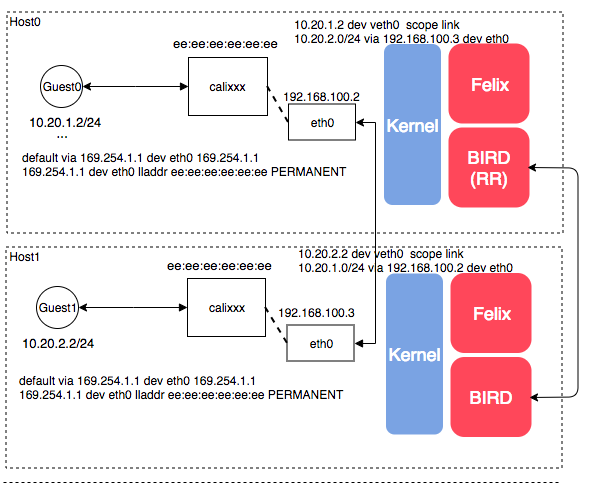
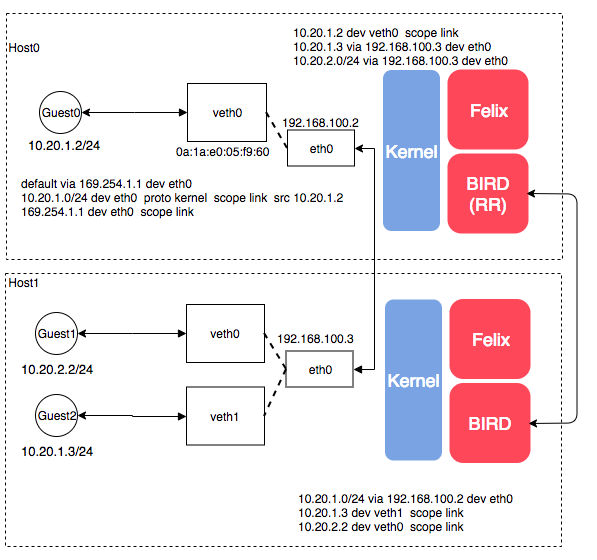
add

diff --git a/_draft/2018-08-05-容器网络 Calico 基本原理和验证.md b/_draft/2018-08-05-容器网络 Calico 基本原理和验证.md
@@ -1,15 +1,14 @@
 ---
 description: "
-之前一篇博文分析了容器网络 Flannel 的 backend 的基本原理和验证，在容器网络方案中，Calico 的方案也是主流常用的方案，这篇文章对 Calico 进行基本原理分析和模拟验证。
+在容器网络跨 Host Overlay 方案中，除开 Flannel 使用的隧道方案实现，第二种主流的方案为 Calico 三层路由的方案实现，与 Flannel 不同的是 Calico 并不使用隧道或 NAT 来转发和组网，而是巧妙的把流量转换称三层路由的方式，再直接利用 host 上 veth 接口和路由表来完成数据转发，本文则对 Calico 进行基本原理分析和模拟验证。
 "
 ---
 ### 摘要
-
-之前一篇博文分析了容器网络 Flannel 的 backend 的基本原理和验证，在容器网络方案中，Calico 的方案也是主流常用的方案，这篇文章对 Calico 进行基本原理分析和模拟验证。
+在容器网络跨 Host Overlay 方案中，除开 Flannel 使用的隧道方案实现，第二种主流的方案为 Calico 三层路由的方案实现，与 Flannel 不同的是 Calico 并不使用隧道或 NAT 来转发和组网，而是巧妙的把流量转换称三层路由的方式，再直接利用 host 上 veth 接口和路由表来完成数据转发，本文则对 Calico 进行基本原理分析和模拟验证。
 
 ### 简介
 
-官方定义如下：
+calico 官方定义如下：
 
 ```text
 Calico provides secure network connectivity for containers and virtual machine workloads.
@@ -18,23 +17,44 @@ Calico creates and manages a flat layer 3 network, assigning each workload a ful
 
 Calico also provides dynamic enforcement of network security rules. Using Calico’s simple policy language, you can achieve fine-grained control over communications between containers, virtual machine workloads, and bare metal host endpoints.
 ```
+大意翻译称自己的理解是：
+Calico 为容器和 vm 提供一个安全的网路连接方案，通过给 workload 分配一个扁平的三层路由可达的 IP 地址，并他们之间不使用隧道或 NAT 技术，这种简单的方式可以提供更好的网络性能、易维护、可交互性。在一些需要 overlay 的场景种，也提供 IPIP 隧道连接和与 Flannel 集成。
+Calico 同时提供了一种动态执行的网络安全策略，能使用简单的安全模型语言实现复杂的 workloads 之间的安全控制。
 
-Calico 为容器和 vm 提供一个网络安全的解决方案，Calico 构建一个扁平的三层网络方案，即所有的 guest 之间全部走路由表，并不关心 ARP 表，并不使用 IP 封装或 NAT 技术，节点间的路由信息使用 BGP 协议来实现，这样获取更好的网络性能、易维护且可交互性。在一些特定场景中可使用 IP-IP 隧道技术或者与 Flannel 配合构建网络。另外 Calico 提供一种动态安全策略，使用简易的策略语言来控制容器、虚拟机、物理之间的网络安全。
+### 相对 Overlay，为什么用 Calico？
 
-可见，Calico 的网络不使用 Overlay 技术的实现，而完全通过动态路由和 ACL 安全策略实现，并且也能与 flannel 的网路方案集成，说是一个网络安全方案更准确。
+Calico 有一篇官方的[博文](https://www.projectcalico.org/why-calico/)来说明，大意如下：
+
+Calico 是一种使 workloads 之间互通的网络方法，这里特意使用 workloads 来代替 VM 或 Container 等是因为 Calico 能应用在以上任意场景中。
+在虚拟化平台中，像 OpenStack、Docker 等都需要实现 workloads 之间互通，但同时也需要限制 workloads 之间互通，就像仅开放部分端口被 internet 访问一样，也需要对多个租户之间做网络隔离。
+而在传统的虚拟化平台中，也是现实中大多数小型系统通常都使用二层隔离技术来配置 workloads 的网络，这种方法有一些弊端：平台需要实现 VLAN、bridge 和隧道来保证二层网络在 hosts 之间互通。bridge 带来一定的复杂性，vlan 和 tunnel 隧道将消耗更多的资源并对物理环境有限制，随着网络规模增大，配置也会越复杂。
+那么有更好的方案吗？在审视了二层方案并思考如何支持大型网络时从 internet 网络中获得了灵感。在 internet 的网路中，路由器连接着各种小网络，最终组成一个巨大的 internet 的网络，路由器之间通过 BGP 相互学习路由，并使用防火墙控制不同主机之间的连接，这种方式是否也能应用到虚拟网络中呢？
+因此，借鉴同样思路，把 host 当作 internet 中的路由器，称之为虚拟路由器 vRouter，同样使用 BGP 同步路由，在 host 上的 iptables 来控制访问连接，最终设计了 Calico 系统，整个系统的优势为：
+
+1. 更优的资源利用
+  二层网络通讯依赖广播消息机制，广播消息的开销与 host 的数量呈指数级增长，calico 完全不依赖二层广播。而且，如果你使用 VLAN 技术，将会面临 4096 个规格限制，即便你可以使用 vxlan 技术解决这个问题，但 vxlan 又带来了新的隧道开销的问题。
+2. 可扩展性
+  calico 使用与 internet 类似的方案，internet 的网络比任何数据中心都大，calico 同样也具有可扩展性。
+3. 简单而容易 debug
+  因为没有隧道，意味着 workloads 之间更简单，更少的配置，更容易在 host 上进行 debug。
+4. 对数据中心更少的依赖
+  Calico 仅依赖三层路由，不依赖 L2 层的技术栈。
+5. 可适配性
+  Calico 不依赖任何虚拟化模型，所以它能适配所有 VM、Container、白盒或者混合环境。
+
+除了以上，还有更多的优势，如果你为 OpenStack 或 docker 构建虚拟化网络环境的话，好好考虑下 calico 的方案。
 
 ### 架构
 
-Calico 由 5 部分组件组成：
+Calico 由 5 部分组件组成，整体构架如下：
+![img](http://yangjunsss.github.io/images/calico/calico_arch.png)
+
 1. Felix，运行在每一台 Host 的 agent 进程，主要负责网络接口管理和监听、路由、ARP 管理、ACL 管理和同步、状态上报等
 2. Orchestrator Plugin，编排插件，并不是独立运行的某些进程，而是设计与 k8s、OpenStack等平台集成的插件，如 Neutron’s ML2 plugin 用于用户使用 Neutron API 来管理 Calico，本质是要解决模型和 API 间的兼容性问题。
-3. Etcd，Calico 模型的存储引擎，这个没什么解释的，本质是一个 KV 数据库。
-4. BGP Client（BIRD），Calico 为每一台 Host 部署一个 BGP Client，使用 BIRD 项目实现，BIRD 是一个单独的持续发展的项目，实现了众多动态路由协议比如 BGP、OSPF、RIP 等。在 Calico 的角色是监听 Host 上由 Felix 注入的路由信息，然后通过 BGP 协议广播告诉其他与它互联的 Host 节点，某个 IP 在我这，下一跳指向我，从而实现网络互通。
-5. BGP Route Reflector(BIRD)，在大型网络规模中，如果仅仅使用 BGP client 形成 mesh 全网互联的方案就会导致规模限制，因为所有节点之间需要俩俩互联，通常需要 N^2 个连接，为了解决这个问题，可以采用 BGP 常用的 RR 的方法，简单说所有 BGP Client 仅与特定 RR 节点互联并做路由同步。
+3. Etcd，Calico 模型的存储引擎。
+4. BGP Client（BIRD），Calico 为每一台 Host 部署一个 BGP Client，使用 BIRD 实现，BIRD 是一个单独的持续发展的项目，实现了众多动态路由协议比如 BGP、OSPF、RIP 等。在 Calico 的角色是监听 Host 上由 Felix 注入的路由信息，然后通过 BGP 协议广播告诉其他与它互联的 Host 节点，如某个 IP 在我这，下一跳指向我，从而实现网络互通。
+5. BGP Route Reflector(BIRD)，在大型网络规模中，如果仅仅使用 BGP client 形成 mesh 全网互联的方案就会导致规模限制，因为所有节点之间俩俩互联，需要 N^2 个连接，为了解决这个问题，可以采用 BGP 的 Router Reflector 的方法，简单说所有 BGP Client 仅与特定 RR 节点互联并做路由同步，从而大大减少连接数。
 
-因此，整体可以画出构架如下：
-
-![img](http://yangjunsss.github.io/images/calico/calico_arch.png)
 
 ### 模拟组网
 
@@ -42,35 +62,9 @@ Calico 由 5 部分组件组成：
 
 ![img](http://yangjunsss.github.io/images/calico/calico_network.png)
 
-路由配置如下：
-
-```sh
-# HOST0
-[root@i-7dlclo08 ~]# ip r
-default via 192.168.100.1 dev eth0  proto static  metric 100
-10.20.1.2 dev veth0  scope link
-10.20.2.0/24 via 192.168.100.3 dev eth0
-192.168.100.0/24 dev eth0  proto kernel  scope link  src 192.168.100.2  metric 100
-[root@i-7dlclo08 ~]# ip netns exec ns0 ip r
-default via 169.254.1.1 dev eth0
-169.254.1.1 dev eth0  scope link
-[root@i-7dlclo08 ~]# ip netns exec ns0 ip n
-192.168.100.2 dev eth0 lladdr 0a:1a:e0:05:f9:60 STALE
-169.254.1.1 dev eth0 lladdr 0a:1a:e0:05:f9:60 PERMANENT
-[root@i-7dlclo08 ~]# ip -d a
-2: eth0: <BROADCAST,MULTICAST,UP,LOWER_UP> mtu 1500 qdisc pfifo_fast state UP qlen 1000
-    link/ether 52:54:ca:9d:db:ff brd ff:ff:ff:ff:ff:ff promiscuity 0
-    inet 192.168.100.2/24 brd 192.168.100.255 scope global dynamic eth0
-       valid_lft 40107sec preferred_lft 40107sec
-    inet6 fe80::76ef:824d:95ef:18a3/64 scope link
-       valid_lft forever preferred_lft forever
-6: veth0@if5: <BROADCAST,MULTICAST,UP,LOWER_UP> mtu 1500 qdisc noqueue state UP qlen 1000
-    link/ether 0a:1a:e0:05:f9:60 brd ff:ff:ff:ff:ff:ff link-netnsid 0 promiscuity 0
-    veth
-    inet6 fe80::81a:e0ff:fe05:f960/64 scope link
-       valid_lft forever preferred_lft forever
-
-```
+1. guest 配置 169.254.1.1 的默认路由
+2. host 上配置 10.20.2.0/24 和 10.20.1.3/32 路由
+3. 开启 arp proxy 和 ip_forward 能力
 
 网络连通性测试：
 
@@ -84,11 +78,44 @@ PING 10.20.2.2 (10.20.2.2) 56(84) bytes of data.
 PING 192.168.100.3 (192.168.100.3) 56(84) bytes of data.
 64 bytes from 192.168.100.3: icmp_seq=1 ttl=63 time=1.00 ms
 64 bytes from 192.168.100.3: icmp_seq=2 ttl=63 time=0.695 ms
+[root@i-7dlclo08 ~]# ip netns exec ns0 ping 10.20.1.3
+PING 10.20.1.3 (10.20.1.3) 56(84) bytes of data.
+64 bytes from 10.20.1.3: icmp_seq=1 ttl=62 time=957 ms
+64 bytes from 10.20.1.3: icmp_seq=2 ttl=62 time=0.432 ms
+64 bytes from 10.20.1.3: icmp_seq=3 ttl=62 time=0.563 ms
 ```
 
-关键点：
-1. 所有 guest 内的路由都一样，默认路由走 169.254.1.1 这个地址，并且 169.254.1.1 地址的 MAC 地址为 host 中的 veth0 的地址(所有 veth0 的 MAC 地址可以配置成一样)，目的是为了让数据包能正确送达到 host 的 namespace 中。
-2. 整个方案不关心 guest 的 MAC 地址，不做 ARP 二层寻址，这也是为什么说 Calico 是一个纯三层的方案，host 中的数据包不管是同一个子网还是不同子网，都从三层 FID 表中进行路由。
-3. 在以上方案基础上做 ACL 安全配置实现 Overlay 和 Underlay 的隔离及租户间的隔离。
+转发过程：
+1. guest0 本地所有数据包都转发到一个虚假的地址 169.254.1.1，发送 ARP Req。
+2. Host0 的 veth 端收到 ARP Req 时通过开启网卡的 `/proc/sys/net/ipv4/conf/veth0/proxy_arp` ARP 代理功能直接把自己的 MAC 地址返回给 guest0
+3. guest0 发送目的地址为 guest1 的数据包
+4. Host 查询本地路由 `10.20.2.0/24 via 192.168.0.3 dev eth0 proto bird` 发送给对端 host1，看到 proto 协议为 BIRD 实现，这里为空
+5. 在发送之前查询匹配本地的 iptables 规则进行安全检查
+6. 当对方收到送往 10.20.2.2 的数据包时查找本地路由表匹配`10.20.2.2/32 dev veth0 scope link` 转发到对应的 veth 端从而到达 guest1
+
+### BGP 模型
+在整个 calico 的方案中，因为使用 BGP 来同步路由，那么 BGP 模型设计成为一个重要话题，calico 官方 propose 了3种模型，并推荐 AS Per Rack model：
+1. AS Per Rack model
+2. AS Per Computer Server model
+3. Downward Default model
+
+```text
+Recommendation
+The Project Calico team recommends the use of the AS per rack model if the resultant routing table size can be accommodated by the ToR and spine switches, remembering to account for projected growth.
+
+If there is concern about the route table size in the ToR switches, the team recommends the Downward Default model.
+
+If there are concerns about both the spine and ToR switch route table capacity, or there is a desire to run a very simple L2 fabric to connect the Calico nodes, then the user should consider the Ethernet fabric as detailed in this post.
+```
+
+### 疑问和思考
+1. 租户隔离问题
+    calico 的三层方案是直接在 host 上进行路由寻址，那么对于多租户如果使用同一个 CIDR 网络就面临着地址冲突的问题。
+2. 路由规模问题
+    通过路由规则可以看出，路由规模和 guest 分布有关，如果 guest 离散分布在 host 上，势必会产生较多的路由项。
+
 
 ### 总结
+1. calico 通过巧妙的引导 workload 所有的流量 169.254.1.1 这个不存在的网关，并引流到 host 的 calixxx，形成了二三层流量全部转换称 host 的三层转发来实现流量转发
+2. 在 Host 上通过开启 arp proxy 的能力实现 arp 代答，arp 广播被限制在了 host 上，并且 arp 记录都“无效”，没有广播风暴和 arp 表膨胀的问题
+3. 使用 iptables 在 host 做 policy 实现的复杂的安全模型，虽然有一个中心配置节点，但策略应用在每一台虚拟路由器上，形成了一个分布式的安全模型
